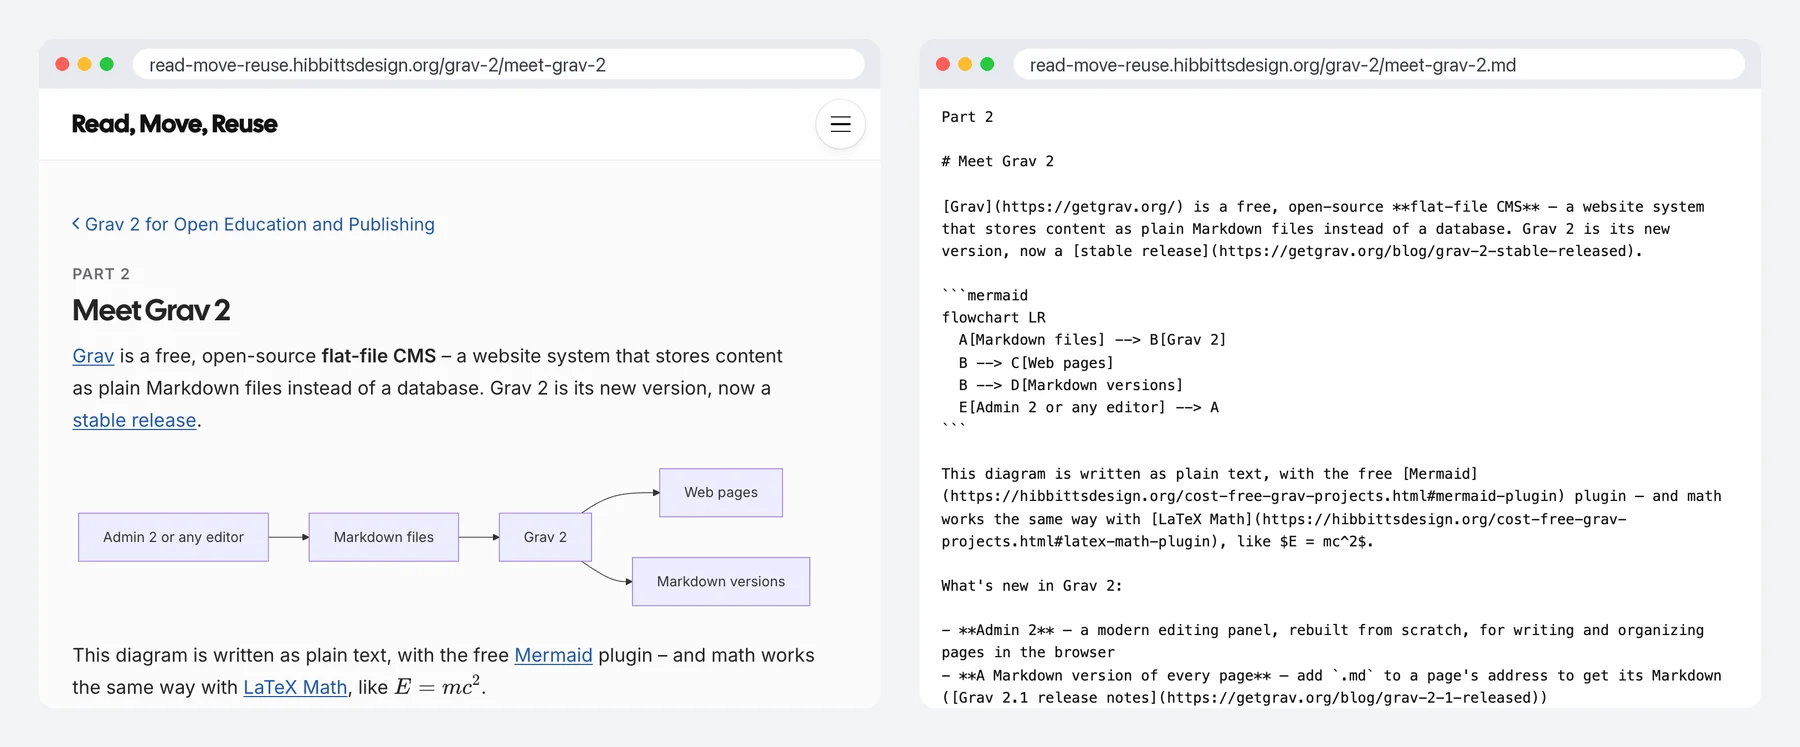
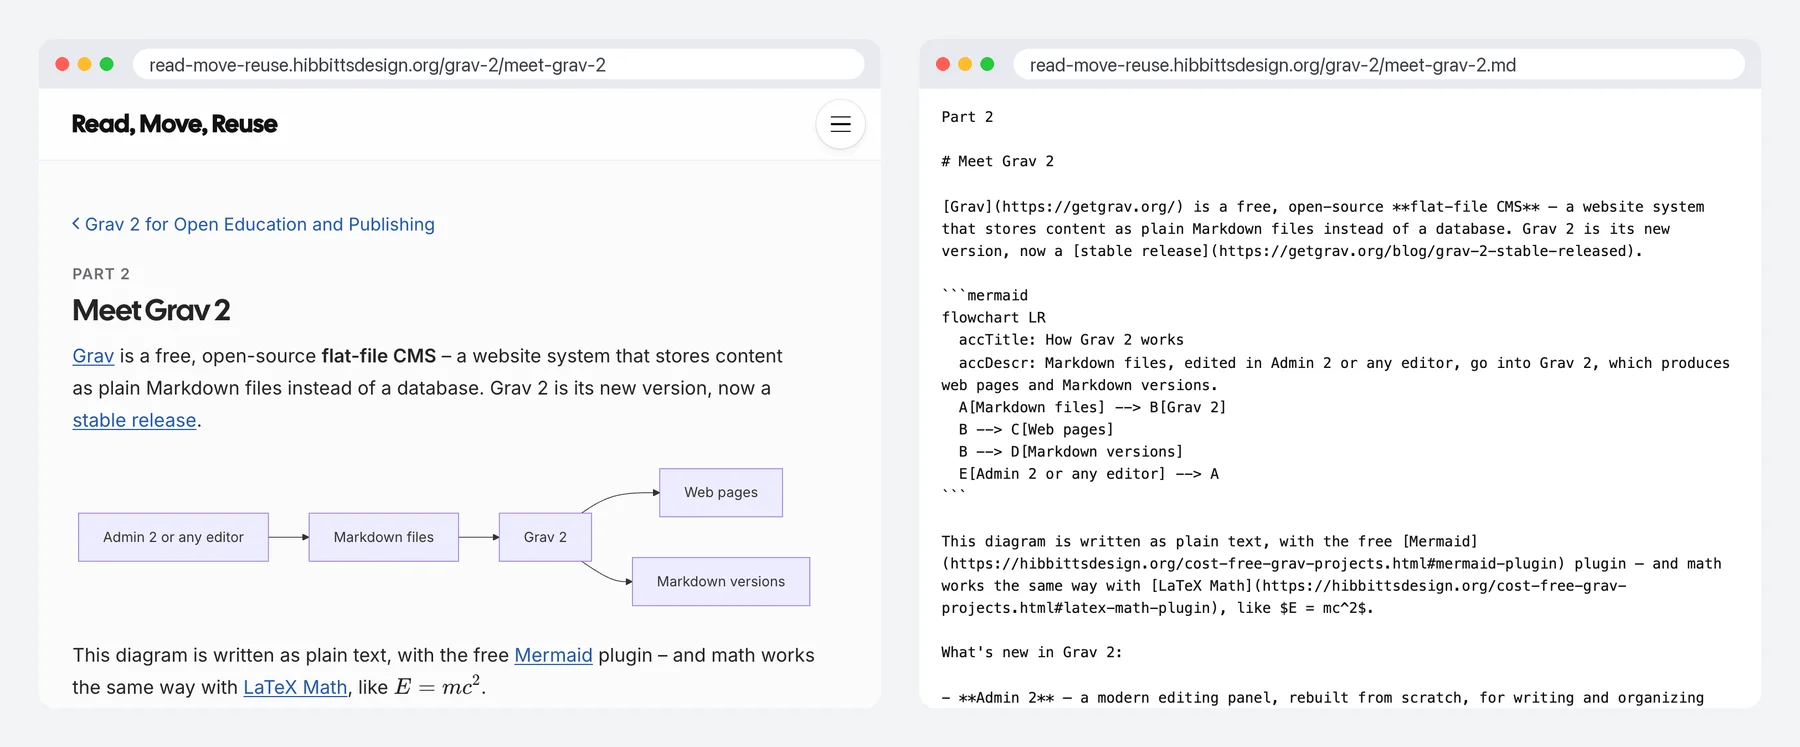
Content updates.

Changed region(s): [[0.5289, 0.4311, 0.9644, 0.9545]]

diff --git a/pages/05.grav-2/06.getting-started/section.md b/pages/05.grav-2/06.getting-started/section.md
@@ -10,6 +10,7 @@ Everything in this guide is **free and open-source**, and you can explore the de
 - **"I want to share an open textbook or guide"** → Open Publishing Space 2: demo with [one guide](https://demo.hibbittsdesign.org/grav-open-publishing-quark2/) or [several guides](https://demo.hibbittsdesign.org/grav-open-publishing-quark2-guides/) · [download](https://getgrav.org/downloads/skeletons#open-publishing-space-site)
 - **"I want an open home for my course"** → Open Course Hub 2: [demo](https://demo.hibbittsdesign.org/grav-open-course-hub/) · [download](https://getgrav.org/downloads/skeletons#course-hub-site)
 - **"I teach several courses"** → Open MultiCourse Hub 2: [demo](https://demo.hibbittsdesign.org/grav-open-multi-course-hub/) · [download](https://getgrav.org/downloads/skeletons#multicourse-hub-site)
+- **"I just want to publish Markdown, with no web server"** → [Docsify-This](https://docsify-this.net/) – free, with nothing to host; start from its [Guide Site](https://github.com/hibbitts-design/docsify-this-guide-site) or [Course Site](https://github.com/hibbitts-design/docsify-this-multiple-page-course-site) template, and the [Open Publishing Course Hub Converter](https://open-publishing-course-hub-converter.hibbittsdesign.org/) can turn it into a Grav site later
 - **"I already have a Pressbooks book or LMS course"** → the [Pressbooks](https://pressbooks-converter.hibbittsdesign.org/) or [Common Cartridge](https://common-cartridge-converter.hibbittsdesign.org/) Converter
 
 **Try it in 10 minutes:**

diff --git a/pages/05.grav-2/03.why-it-suits-open-education/section.md b/pages/05.grav-2/03.why-it-suits-open-education/section.md
@@ -23,6 +23,8 @@ Optional: with the free [Git Sync](https://github.com/trilbymedia/grav-plugin-gi
 
 ```mermaid
 flowchart LR
+  accTitle: Working with Git Sync
+  accDescr: Edits in Admin 2 update the Grav 2 site, which Git Sync keeps in step with a GitHub repository, where co-authors can also make changes.
   A([fa:fa-pen-to-square Edit in Admin 2]) --> B(fa:fa-globe Grav 2 site)
   B <-.->|Git Sync| C(fab:fa-github GitHub repository)
   D([fa:fa-users Co-authors]) --> C

diff --git a/pages/05.grav-2/02.meet-grav-2/section.md b/pages/05.grav-2/02.meet-grav-2/section.md
@@ -10,6 +10,8 @@ side_box: 'Grav''s own site, with themes, plugins and downloads: [getgrav.org](h
 
 ```mermaid
 flowchart LR
+  accTitle: How Grav 2 works
+  accDescr: Markdown files, edited in Admin 2 or any editor, go into Grav 2, which produces web pages and Markdown versions.
   A[Markdown files] --> B[Grav 2]
   B --> C[Web pages]
   B --> D[Markdown versions]

diff --git a/pages/05.grav-2/topics/default.md b/pages/05.grav-2/topics/default.md
@@ -24,7 +24,7 @@ Every topic in the guide, from A to Z.
 
 - [Database, none needed](/grav-2/meet-grav-2)
 - [Demos](/grav-2/getting-started)
-- [Docsify-This](/grav-2/why-it-suits-open-education)
+- [Docsify-This](/grav-2/getting-started)
 
 ## E
 
